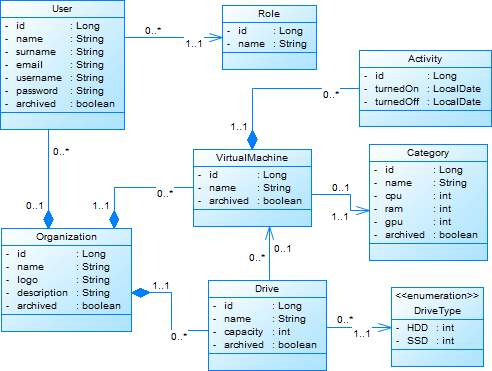
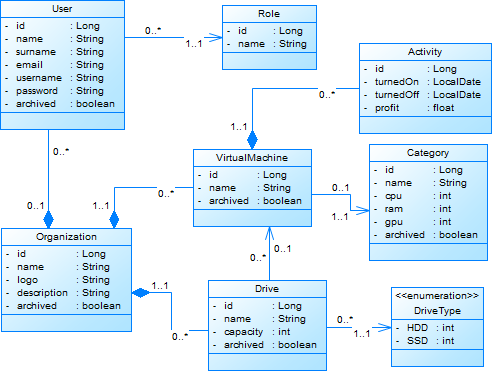
Added profit to Activity

diff --git a/cloud-api/cloud/src/main/java/com/demo/cloud/model/Activity.java b/cloud-api/cloud/src/main/java/com/demo/cloud/model/Activity.java
@@ -26,19 +26,27 @@ public class Activity {
     @Column
     private LocalDate turnedOff;
 
+    @Column(nullable = false)
+    private float profit;
+
     @ManyToOne
     private VirtualMachine machine;
 
     public Activity() { }
 
-    public Activity(LocalDate turnedOn, LocalDate turnedOff, VirtualMachine machine) {
-        this(null, turnedOn, turnedOff, machine);
+    public Activity(LocalDate turnedOn, LocalDate turnedOff, VirtualMachine machine, float profit) {
+        this(null, turnedOn, turnedOff, profit, machine);
     }
 
-    public Activity(Long id, LocalDate turnedOn, LocalDate turnedOff, VirtualMachine machine) {
+    public Activity(Long id, LocalDate turnedOn, LocalDate turnedOff, float profit, VirtualMachine machine) {
+        if (profit < 0) {
+            throw new IllegalArgumentException("Profit must be positive number or zero.");
+        }
+
         this.id = id;
         this.turnedOn = Objects.requireNonNull(turnedOn, "Turned on date must not be null.");
         this.turnedOff = turnedOff;
+        this.profit = profit;
         this.machine = Objects.requireNonNull(machine, "Virtual machine must not be null.");
 
     }
@@ -65,6 +73,10 @@ public class Activity {
 
     public LocalDate getTurnedOff() {
         return turnedOff;
+    }
+
+    public float getProfit() {
+        return profit;
     }
 
     public VirtualMachine getMachine() {
